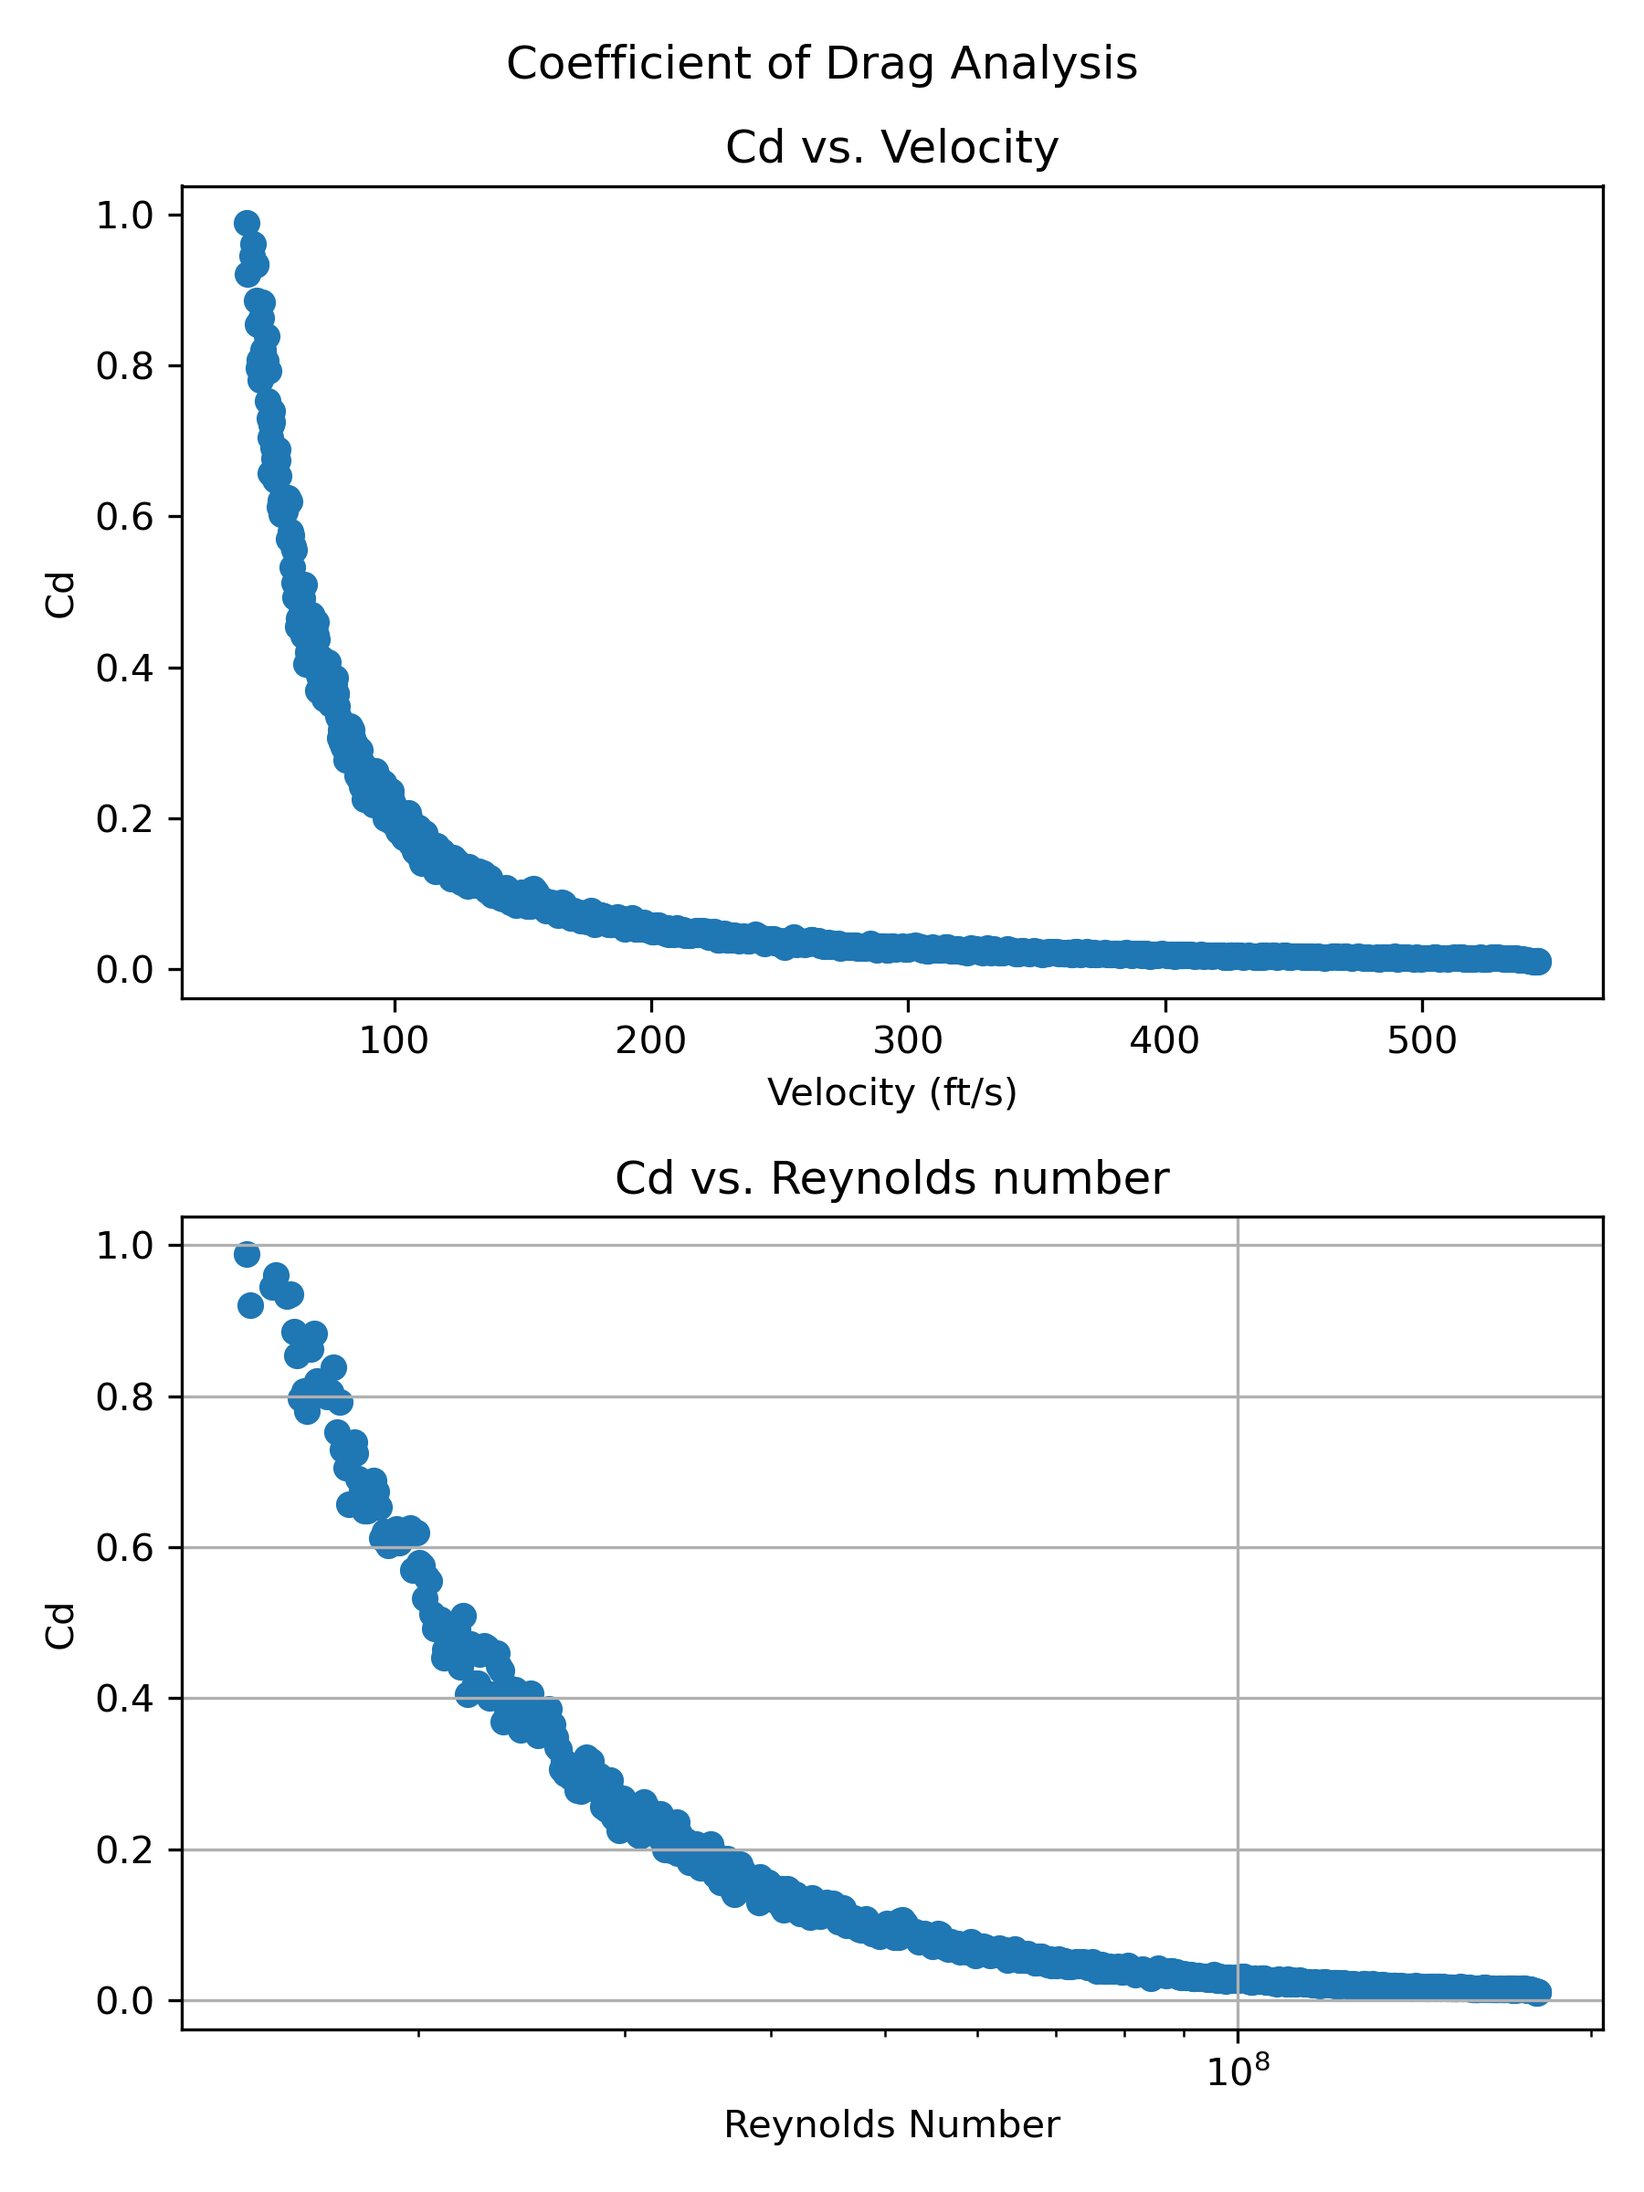
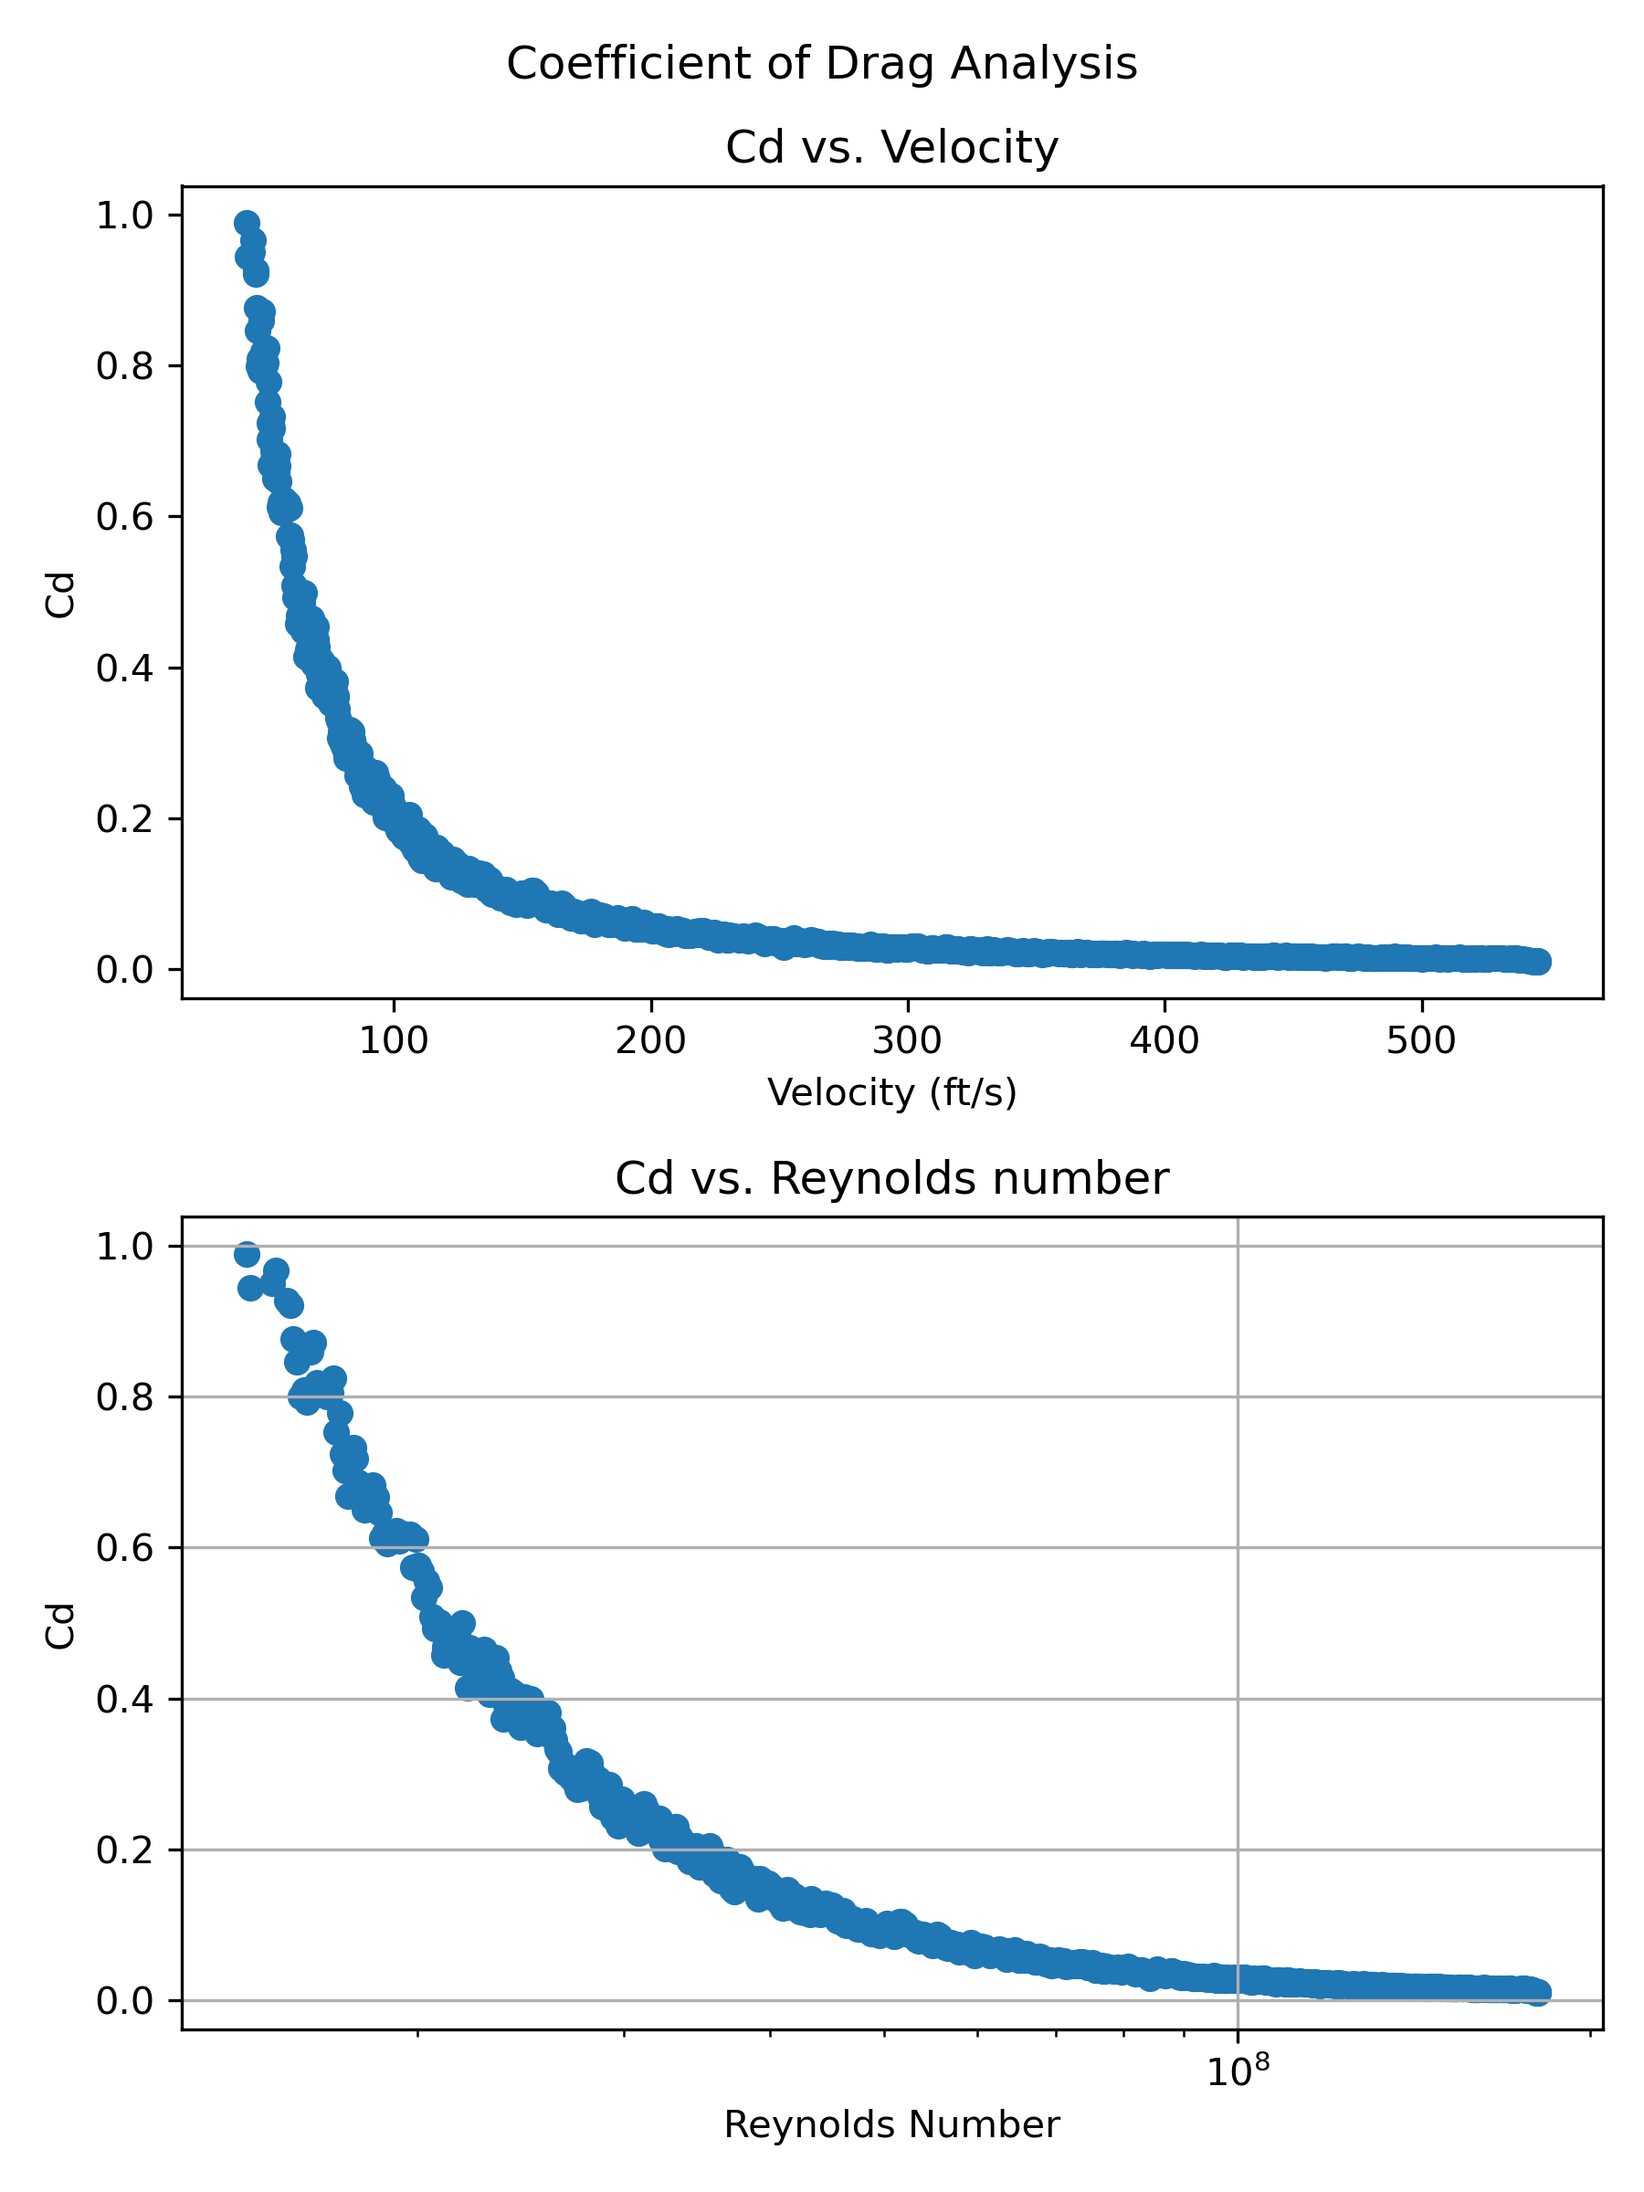
ujpdated with alpha = 0.5

Changed region(s): [[0.1244, 0.5625, 0.2178, 0.6562], [0.1244, 0.125, 0.1867, 0.1562], [0.28, 0.75, 0.3111, 0.7812]]

diff --git a/plotting/RocketReader.py b/plotting/RocketReader.py
@@ -45,6 +45,7 @@ def add_fluid_properties(df, properties):
 
         # experimental stuff that depends on viscosity
         df['reynolds_number'] = (df['smoothed_velocity_ft/s'] * properties['length_scale']) / df['kinematic_viscosity']
+        # df['drag_force'] = abs(properties[''] * acceleration)
         # df['mach_number'] = df['velocity_ft/s'] / df['speed_of_sound']
         # df['stagnation_pressure'] = 0.5 * df['density'] * df['velocity_ft/s']**2
         # df['stagnation_temperature'] = df['temperature'] + (df['velocity_ft/s']**2) / (2 * 1716)
@@ -94,8 +95,9 @@ def smoothing_comparison_plot(df):
         ax2.legend()
         ax3.legend()
 
-    except:
+    except Exception as e:
       print('Error generating smoothing comparison plot')
+      print(e)
 
 def gps_plot(df):
     assert 'latitude' in df.columns, 'Latitude data not found in DataFrame'
@@ -412,6 +414,15 @@ def drag_coefficient_calculation(df, properties):
 
         fig.suptitle('Coefficient of Drag Analysis')
 
+        plt.tight_layout()
+
+        # New figure for Drag Force vs Time
+        fig2, ax2 = plt.subplots(figsize=(6, 4))
+        ax2.scatter(time, drag_force)
+        ax2.set_xlabel('Time (s)')
+        ax2.set_ylabel('Drag Force (lbf)')
+        ax2.set_title('Drag Force vs. Time')
+        ax2.grid(True)
         plt.tight_layout()
         
         return drag_data_df
@@ -1165,7 +1176,7 @@ def main(year, file_name):
         properties = {"weight": 1, "area": 1, "length_scale":5, "primary_main_parachute_height":550, "backup_main_parachute_height":500} # SFT1
 
     # CLEANING DATA AND CONVERTING TO IMPERIAL
-    alpha = 0.6
+    alpha = 0.5
     df_primary = convert_to_imperial(clean_data(df_primary,alpha))
     df_backup = convert_to_imperial(clean_data(df_backup,alpha))
 
@@ -1177,11 +1188,6 @@ def main(year, file_name):
     specific_run = False
     if specific_run:
         print("Specific Run")
-        profile_plot(df_primary)
-        main_parachute_plot_backup_only(df_primary, properties)
-        report(df_primary)
-        voltage_plot(df_primary)
-        drag_coefficient_calculation(df_primary, properties)
     
     # GENERAL PLOTS
     default_run = True
@@ -1218,7 +1224,7 @@ def main(year, file_name):
         for i in plt.get_fignums():
             plt.figure(i).savefig(f'{output_dir}/{year[5:9]}-{file_name}-{i}.png', dpi=300)
 
-    plt.show()
+    # plt.show()
 
 year = "data-2025"
 file_name = "FT1"
